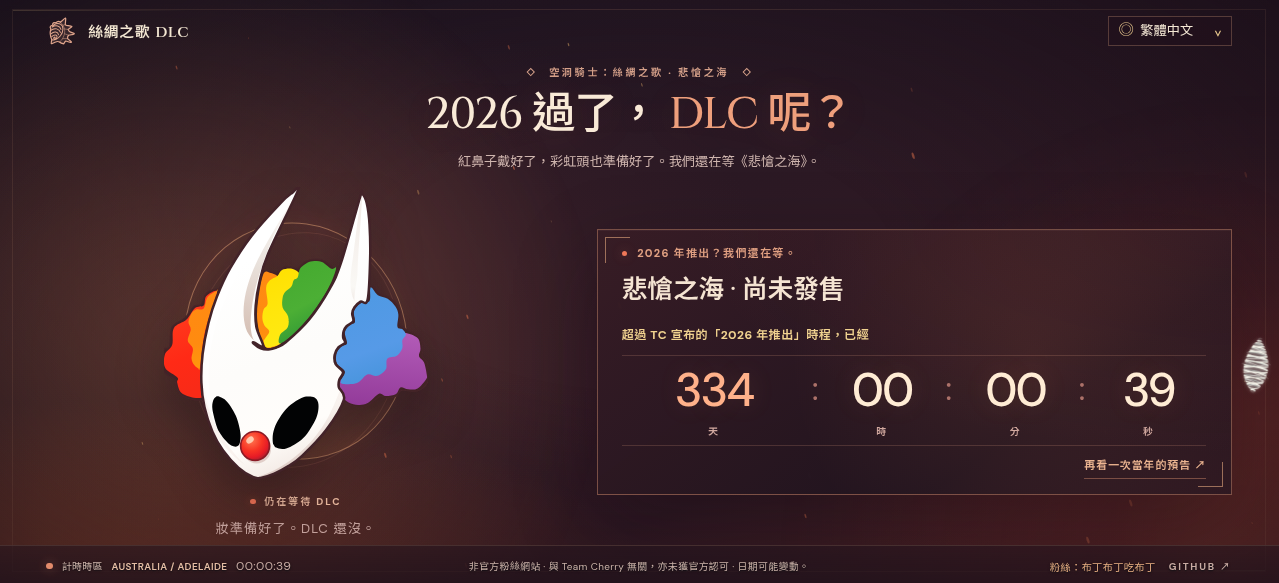
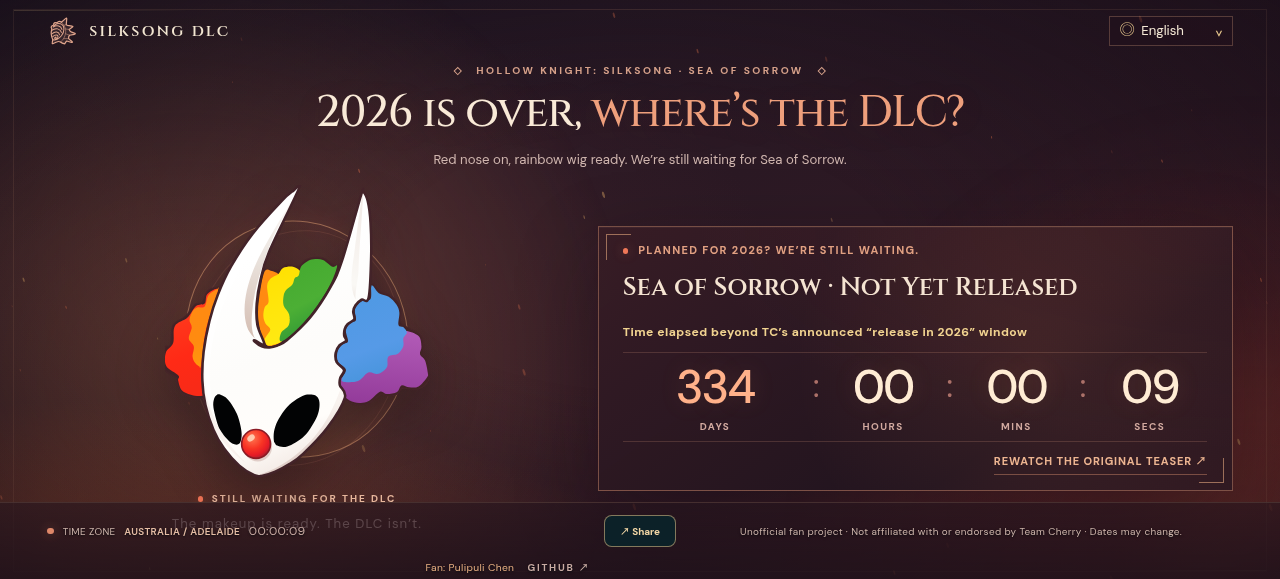
docs: refresh Cherry Time screenshots and preview date
Point both READMEs at the current dual-countdown screenshot, refresh the other demo images, align the custom simulation date with the maintainer guide, and add a bilingual documentation index.

diff --git a/src/main.ts b/src/main.ts
@@ -25,7 +25,7 @@ const formatter = new Intl.DateTimeFormat("en-GB", {
 type SimulationMode = "auto" | "custom";
 const simulationSettings: SimulationSettings = {
   mode: "auto", // Use "custom" to preview the date below.
-  date: "2027-12-01", // Custom start date in YYYY-MM-DD format, at Adelaide midnight.
+  date: "2026-12-01", // Custom start date in YYYY-MM-DD format, at Adelaide midnight.
   dlcReleased: false, // Set to true to show the released celebration screen.
   dlcReleasedAt: "2027-10-01T00:00:00+09:30", // Adelaide midnight for the configured release date; replace with the confirmed release time when known.
   dlcAnnouncementUrl: "https://www.teamcherry.com.au/", // Full https:// URL of the release announcement. Leave empty to hide the button.

diff --git a/docs/README.md b/docs/README.md
@@ -1,0 +1,45 @@
+# Documentation / 文件目錄
+
+Maintainer guides for this project. Each topic has an English page and a Traditional Chinese page; the two versions cover the same steps.
+
+本專案的維護者文件。每個主題都有英文與繁體中文頁面，兩邊說明相同的操作。
+
+[Project README](../README.md) · [專案說明](../README_zh_tw.md)
+
+| Topic / 主題 | English | 繁體中文 |
+| --- | --- | --- |
+| Countdown dates and DLC configuration<br>倒數日期與 DLC 設定 | [English](./en_us/configuration.md) | [繁體中文](./zh_tw/configuration.md) |
+| Deployment and local testing<br>部署與本機測試 | [English](./en_us/deploy.md) | [繁體中文](./zh_tw/deploy.md) |
+| Google Play AAB configuration<br>Google Play AAB 設定 | [English](./en_us/google_play.md) | [繁體中文](./zh_tw/google_play.md) |
+
+## What each guide covers / 各指南內容
+
+### Countdown dates and DLC configuration / 倒數日期與 DLC 設定
+
+Preview a simulated date or the release screen, and change the built-in Cherry Time, year-end, and overdue boundaries in `src/main.ts`.
+
+預覽模擬日期或發售畫面，以及在 `src/main.ts` 修改內建的 Cherry Time、年底標記與逾期時間界線。
+
+- [Preview a date or the DLC release screen](./en_us/configuration.md#preview-a-date-or-the-dlc-release-screen) · [預覽日期或 DLC 發售畫面](./zh_tw/configuration.md#預覽日期或-dlc-發售畫面)
+- [Change the built-in countdown dates](./en_us/configuration.md#change-the-built-in-countdown-dates) · [修改內建倒數日期](./zh_tw/configuration.md#修改內建倒數日期)
+- [Apply changes](./en_us/configuration.md#apply-changes) · [套用變更](./zh_tw/configuration.md#套用變更)
+
+### Deployment and local testing / 部署與本機測試
+
+Publish with GitHub Actions, or optionally preview the production build and the Vite dev server with Podman.
+
+用 GitHub Actions 發布，或選擇以 Podman 預覽正式建置與 Vite 開發伺服器。
+
+- [Automatic deployment with GitHub Actions](./en_us/deploy.md#automatic-deployment-with-github-actions) · [使用 GitHub Actions 自動部署](./zh_tw/deploy.md#使用-github-actions-自動部署)
+- [Local production preview with Podman](./en_us/deploy.md#local-production-preview-with-podman) · [使用 Podman 預覽正式建置](./zh_tw/deploy.md#使用-podman-預覽正式建置)
+- [Vite hot reload with Podman](./en_us/deploy.md#vite-hot-reload-with-podman) · [使用 Podman 啟動 Vite 熱更新](./zh_tw/deploy.md#使用-podman-啟動-vite-熱更新)
+
+### Google Play AAB configuration / Google Play AAB 設定
+
+Set up the upload key, build a signed Android App Bundle on GitHub Actions, and check Trusted Web Activity full-screen verification.
+
+設定上傳金鑰、在 GitHub Actions 建置已簽署的 Android App Bundle，並檢查 Trusted Web Activity 全螢幕驗證。
+
+- [One-time upload-key setup](./en_us/google_play.md#one-time-upload-key-setup) · [一次性上傳金鑰設定](./zh_tw/google_play.md#一次性上傳金鑰設定)
+- [Build and upload an AAB](./en_us/google_play.md#build-and-upload-an-aab) · [建置並上傳 AAB](./zh_tw/google_play.md#建置並上傳-aab)
+- [Verify the full-screen TWA](./en_us/google_play.md#verify-the-full-screen-twa) · [驗證全螢幕 TWA](./zh_tw/google_play.md#驗證全螢幕-twa)

diff --git a/README.md b/README.md
@@ -16,9 +16,7 @@ What if the wait continues? What if the DLC finally arrives? This site is design
 
 ### 1. Two dates, one long wait — dual countdown
 
-![Historical dual-countdown layout preview](./demo/demo_wait_switch_2.png)
-
-*Historical screenshot: the first card now counts down to Cherry Time.*
+![Cherry Time and Sea of Sorrow dual countdown](./demo/demo_wait_cheery_time.png)
 
 Two cards appear side by side. The first watches **Cherry Time on November 27, 2026, at 23:00 Taipei time (November 28, 01:30 Adelaide time)**; the second watches the fan-selected **December 31, 2026** year-end DLC marker. Both tick down in days, hours, minutes, and seconds.
 

diff --git a/changelog/CHANGELOG-2026.11.23.md b/changelog/CHANGELOG-2026.11.23.md
@@ -1,0 +1,11 @@
+# 2026.11.23 (Week 4)
+
+## Changed
+- Replaced the historical Switch 2 dual-countdown screenshot in both READMEs with the current Cherry Time and Sea of Sorrow screenshot.
+- Refreshed the year-end, release celebration, and overdue demo screenshots.
+
+## Fixed
+- Set the custom simulation preview date to December 1, 2026, matching the maintainer configuration guide.
+
+## Documentation
+- Added a bilingual documentation index linking the countdown configuration, deployment, and Google Play guides.

diff --git a/CHANGELOG.md b/CHANGELOG.md
@@ -1,0 +1,10 @@
+# Changelog
+
+## Latest Week
+
+- [2026.11.23（Week 4）](changelog/CHANGELOG-2026.11.23.md)
+- [2026.10.19（Week 3）](changelog/CHANGELOG-2026.10.19.md)
+
+## Update Policy
+
+Weekly files record project changes. A week starts at Monday 00:00 Asia/Taipei and ends Sunday 23:59. Add new entries to the current week file. Existing semantic version files remain historical records and are not bumped unless a version is explicitly requested.

diff --git a/README_zh_tw.md b/README_zh_tw.md
@@ -16,9 +16,7 @@
 
 ### 1. 雙重倒數：兩個值得關注的日期
 
-![雙倒數版面歷史截圖](./demo/demo_wait_switch_2.png)
-
-*歷史截圖：第一張卡片現已改為 Cherry Time 倒數。*
+![Cherry Time 與悲愴之海雙倒數畫面](./demo/demo_wait_cheery_time.png)
 
 在 Cherry Time 活動期間及之前，畫面會同時顯示兩張倒數卡片：
 
